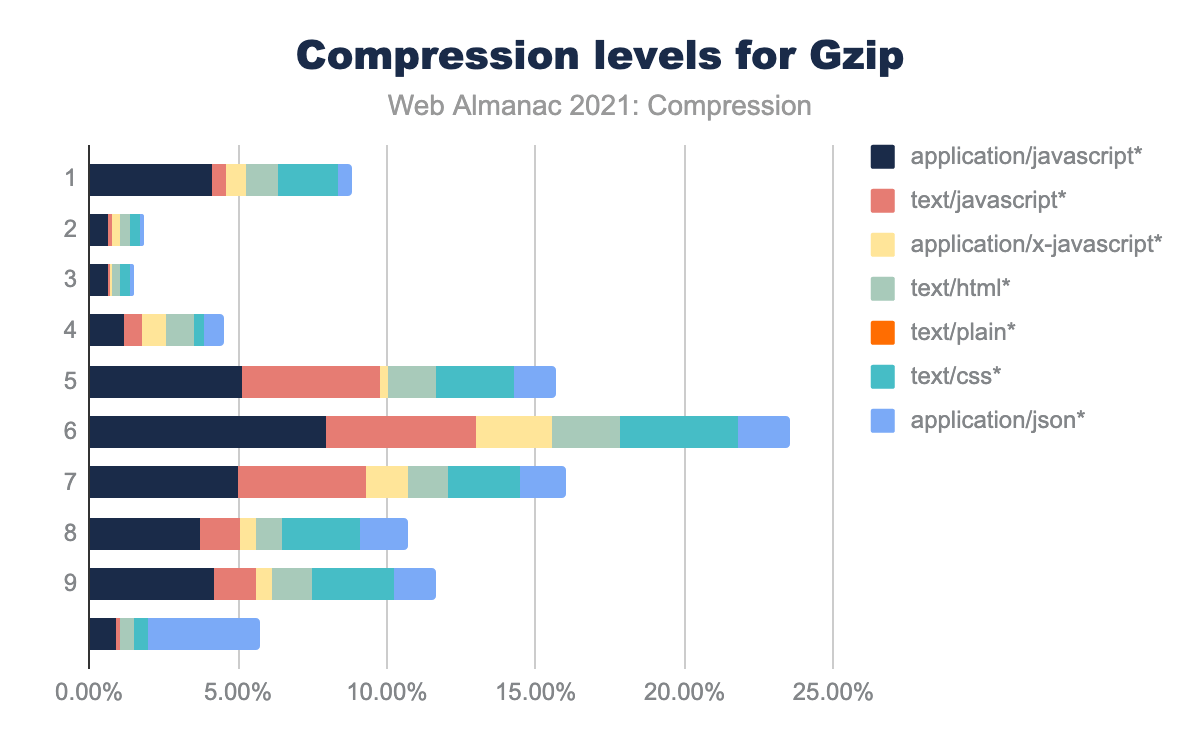
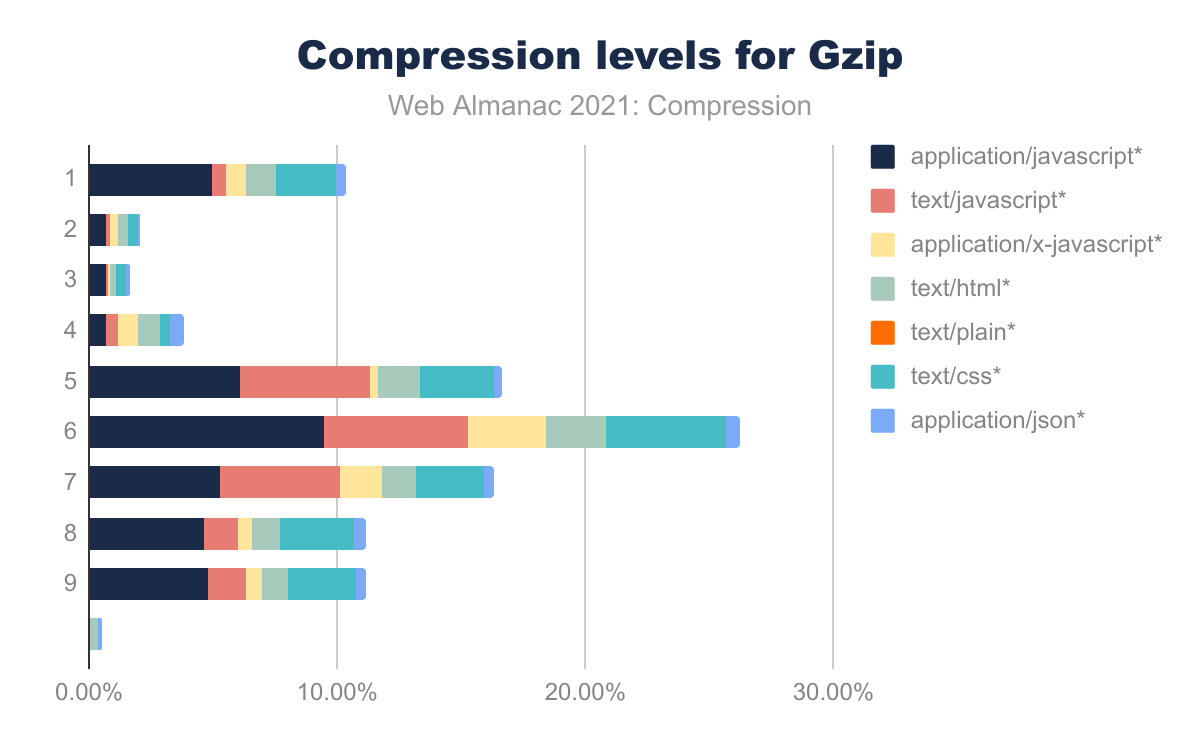
Handle the TODOs for compression chapter edits

diff --git a/src/content/en/2021/compression.md b/src/content/en/2021/compression.md
@@ -23,13 +23,11 @@ unedited: true
 
 ## Introduction
 
-A user's time is valuable, so they shouldn't have to wait a long time for a web page to load. The HTTP protocol allows to compress responses and this decreases the time needed to transfer the content. When taking the compression and decompression time into account, this often leads to significant improvement in the user experience. It can reduce [page weight](./page-weight), improve [web performance](./performance) and boost search rankings. As such it's an important part of [Search Engine Optimization](./seo).
+A user's time is valuable, so they shouldn't have to wait a long time for a web page to load. The HTTP protocol allows to compress responses and this decreases the time needed to transfer the content. Compression often leads to significant improvement in the user experience. It can reduce [page weight](./page-weight), improve [web performance](./performance) and boost search rankings. As such it's an important part of [Search Engine Optimization](./seo).
 
 This chapter discusses lossless compression applied on a HTTP response. Lossy and lossless compression used in [media](../2020/media) formats such as images, audio and video are equally if not more important for increasing page speed. However these are not in the scope of this chapter as they usually are part of the file format itself.
 
-## HTTP compression is useful for many types of content
-
-{# TODO - is this title too long? Can it be shortened? #}
+## Content types using HTTP compression
 
 HTTP compression is recommended for text-based content, such as [HTML](./markup), [CSS](./css), [JavaScript](./javascript), JSON, or SVG, as well as for `woff`, `ttf` and `ico` files. Media files such as images that are already compressed do not benefit from HTTP compression since, as mentioned previously, their representation already includes internal compression.
 
@@ -43,30 +41,20 @@ HTTP compression is recommended for text-based content, such as [HTML](./markup)
   )
 }}
 
-Compared to the other content types, `text/plain` and `text/html` uses the least amount of compression, with merely 12% and 14% using compression at all. This might be because `text/html` is more often dynamically generated than static content such as JavaScript and CSS. However, it is also recommended to compress dynamic content. The next sections show how this is configured.
+Compared to the other content types, `text/plain` and `text/html` use the least amount of compression, with merely 12% and 14% using compression at all. This might be because `text/html` is more often dynamically generated than static content such as JavaScript and CSS, even though compressing dynamically generated content also has a positive impact. More analysis about the compression of JavaScript content is available in the [JavaScript][./javascript] chapter.
 
 ## Server settings for HTTP compression
 
 For HTTP content encoding, the HTTP standard defines the [Accept-Encoding](https://developer.mozilla.org/en-US/docs/Web/HTTP/Headers/Accept-Encoding) request header, with which a HTTP client can announce to the server what content encodings it can handle. The server's response can then contain a [Content-Encoding](https://developer.mozilla.org/en-US/docs/Web/HTTP/Headers/Content-Encoding) header field that specifies which of the encodings was chosen to transform the data in the response body.
 
-Both <a hreflang="en" href="https://github.com/google/brotli">Brotli</a> and <a hreflang="en" href="https://www.gnu.org/software/gzip/manual/gzip.html">Gzip</a> are supported by virtually all browsers. On the server side, most popular servers like nginx and Apache can be configured to use Brotli and/or Gzip. There are two types of compression settings:
+Practically all text compression is done by one of two HTTP content encodings: <a hreflang="en" href="https://tools.ietf.org/html/rfc1952">Gzip</a> and <a hreflang="en" href="https://github.com/google/brotli">Brotli</a>. Both <a hreflang="en" href="https://github.com/google/brotli">Brotli</a> and <a hreflang="en" href="https://www.gnu.org/software/gzip/manual/gzip.html">Gzip</a> are supported by virtually all browsers. On the server side, most [popular servers](https://en.wikipedia.org/wiki/HTTP_compression#Servers_that_support_HTTP_compression) like nginx and Apache can be configured to use Brotli and/or Gzip. The configuration is different depending on when the content is generated:
 
- - for precompressed (static) content: this content is already compressed beforehand, ideally with the highest level possible, and the web server should be set up to find the appropriate compressed files based on the filename extension, for example.
- - for dynamic content, which is compressed on the fly for each request by the web server (or a plugin) itself, for dynamically generated text content
-
-{# TODO: these bullets dont flow well gramatically but i don't understand it enough to fix it #}
+ - static content: this content can be precompressed. The web server should be set up to find the appropriate compressed files, e.g. based on the filename extension. For example, CSS and JavaScript are often static content.
+ - dynamically generated content: this has to be compressed on the fly for each request by the web server (or a plugin) itself. For example, HTML or JSON can be dynamic content in some cases.
 
 When compressing text with Brotli or Gzip it is possible to select different compression levels. Higher compression levels will result in smaller compressed files, but take a longer time to compress. During decompression, CPU usage tends not to be higher for more heavily compressed files. Rather, files that are compressed with a higher compression level are slightly faster to decode.
 
-Many support dynamically and/or precompressed HTTP and many of them support Brotli.
-
-Practically all text compression is done by one of two HTTP content encodings: <a hreflang="en" href="https://tools.ietf.org/html/rfc1952">Gzip</a> and <a hreflang="en" href="https://github.com/google/brotli">Brotli</a>. Both are widely supported by browsers: <a hreflang="en" href="https://caniuse.com/brotli">can I use Brotli</a> / <a hreflang="en" href="https://caniuse.com/gzip">can I use Gzip</a>. On the server side, most [popular servers](https://en.wikipedia.org/wiki/HTTP_compression#Servers_that_support_HTTP_compression)  can be configured to use [Brotli](https://en.wikipedia.org/wiki/Brotli) and/or [Gzip](https://en.wikipedia.org/wiki/Gzip).
-
-{# TODO - this paragraph feels like a repeat of above #}
-
 Depending on the web server software used, compression needs to be enabled, and the configuration may be separate for precompressed and dynamically compressed content. For <a hreflang="en" href="https://httpd.apache.org/">Apache</a>, Brotli can be enabled with <a hreflang="en" href="https://httpd.apache.org/docs/2.4/mod/mod_brotli.html">mod\_brotli</a>, and Gzip with <a hreflang="en" href="https://httpd.apache.org/docs/2.4/mod/mod_deflate.html">mod\_deflate</a>. For <a hreflang="en" href="https://nginx.org/">nginx</a> instructions for <a hreflang="en" href="https://github.com/google/ngx_brotli">enabling Brotli</a> and for <a hreflang="en" href="https://nginx.org/en/docs/http/ngx_http_gzip_module.html">enabling Gzip</a> are available as well.
-
-{# TODO: i've seen at least 2 other chapters mention britoli and gzip compression, most recently javascript. you could link to that chapter to learn more... or they should be linking to you, not sure actually #}
 
 ## Trends in HTTP compression
 
@@ -169,11 +157,11 @@ From these results we can see that, [*compared to 2020*](../2020/compression#fir
 
 ## Compression levels
 
-Compression level is a parameter given to the encoder to adjust the amount of effort is applied to find redundancy in the input in order to consequently achieve higher compression density.
+Compression level is a parameter given to the encoder to adjust the amount of effort is applied to find redundancy in the input in order to consequently achieve higher compression density. A higher compression level results in slower compression, but does not substantially affect the decompression speed, even making it slightly faster. For precompressed content, the time to compress the data has no effect on the user experience because it was already compressed beforehand. For dynamic content, the amount time the CPU needs to compress can be traded off to the gain in speed to send the data over the network.
 
-Brotli encoding allows compression levels from 0 to 11, while Gzip uses levels 1 to 9. Higher levels can be achieved for Gzip as well, with a tool such as Zopfli. This is indicated as `opt` in the graph below. A higher compression level results in slower compression, but does not substantially affect the decompression speed, even making it slightly faster.
+Brotli encoding allows compression levels from 0 to 11, while Gzip uses levels 1 to 9. Higher levels can be achieved for Gzip as well, with a tool such as Zopfli. This is indicated as `opt` in the graph below.
 
-We used the HTTP Archive `summary_response_bodies` data table to analyze the compression levels currently used on the web. This is estimated by re-compressing the responses with different compression level settings and taking the closest actual size, based on around 14000 compressed responses that used Brotli, and 14000 that used Gzip.
+We used the HTTP Archive `summary_response_bodies` data table to analyze the compression levels currently used on the web. This is estimated by re-compressing the responses with different compression level settings and taking the closest actual size, based on around 14,000 compressed responses that used Brotli, and 11,000 that used Gzip.
 
 When plotting the amount of instances of each level, it shows two peaks for the most commonly used Brotli compression levels, one around compression level 5, and another at the maximum compression level. Usage of compression levels below 4 is rare.
 
@@ -191,23 +179,19 @@ Gzip compression is applied largely around compression level 6, extending to lev
 {{ figure_markup(
   image="compression-levels-gzip.png",
   caption="Compression levels for Gzip.",
-  description="Stacked bar charts showing the usage of compression levels of responses using Gzip, for compression level 1 to 9, as well as `opt` which corresponds to optimizers such as Zopfli. It shows peaks at level 1 and at level 6, as well as a smaller peak at level 9. Each level is also broken down by content type.",
+  description="Stacked bar charts showing the usage of compression levels of responses using Gzip, for compression level 1 to 9, as well as `opt` which corresponds to optimizers such as Zopfli. It shows peaks at level 1 and at level 6 extending through level 9. Each level is also broken down by content type.",
   chart_url="https://docs.google.com/spreadsheets/d/e/2PACX-1vQtfyTM9VEweN_Hli3IuxxqU1CRap4V5Q28baEs7aEBResoPRgk9Dwp1m_vdS9lzNlfO8J4hZN7GPT7/pubchart?oid=586666706&format=interactive",
   sheets_gid="150560131"
   )
 }}
 
-{# TODO - should data be broken down more to say which content type? #}
+The figure breaks down each compression level by content type. JavaScript is the most common content type in almost all cases. For Brotli, the proportion of JavaScript in the highest compression levels is higher than in the lower compression levels, while JSON is more common in the lower compression levels. For Gzip, the distribution of the JavaScript content type is roughly equal at all levels.
 
 ## How to analyze compression on sites
 
-To check which content of a website is already using HTTP compression, the [Firefox Developer Tools](https://developer.mozilla.org/en-US/docs/Tools) or the <a hreflang="en" href="https://developers.google.com/web/tools/chrome-devtools">Chrome DevTools</a> can be used. In the developer tools, open the Network tab and reload your site. A list of responses such as HTML, CSS, JavaScript, fonts and images should appear. To see which ones are compressed, you can check the content encoding in their response header. You can enable a column to easily see this for all responses at once. To do this, right click on the column titles, and in the menu navigate to Response Headers and enable Content-Encoding.
+To check which content of a website is using HTTP compression, the [Firefox Developer Tools](https://developer.mozilla.org/en-US/docs/Tools) or the <a hreflang="en" href="https://developers.google.com/web/tools/chrome-devtools">Chrome DevTools</a> can be used. In the developer tools, open the Network tab and reload your site. A list of responses such as HTML, CSS, JavaScript, fonts and images should appear. To see which ones are compressed, you can check the content encoding in their response header. You can enable a column to easily see this for all responses at once. To do this, right click on the column titles, and in the menu navigate to Response Headers and enable Content-Encoding.
 
 Responses that are Gzip compressed will show "gzip", while those compressed with Brotli will show "br". If the value is blank, no HTTP compression is used. For images this is normal, since these resources are already compressed on their own.
-
-If you hover the mouse over the values in the Size column, you can also see "transferred over network" and "resource size" to compare the compressed and actual sizes. This data can also be seen for the entire site: this is indicated as "size" / "transferred size" in Firefox and "transferred" and "resources" in Chrome on the bottom left hand side of the Network tab.
-
-{# TODO is this section above necessary? it has less to do with discussing data #}
 
 {{ figure_markup(
   image="content-encoding.png",
@@ -236,11 +220,9 @@ The HTTP Archive [runs Lighthouse audits](./methodology#lighthouse) for every mo
 
 Before thinking about how to compress content, it is often wise to reduce the content transmited to begin with. One way of achieving this is to use so-called "minimizers", such as <a hreflang="en" href="https://github.com/kangax/html-minifier">HTMLMinifier</a>, <a hreflang="en" href="https://github.com/ben-eb/cssnano">CSSNano</a>, or <a hreflang="en" href="https://github.com/mishoo/UglifyJS2">UglifyJS</a>.
 
-After having the minimal form of the conten to transmit, the next step is to ensure compression is enabled. You can verify it is enabled as highlighted in the previous section, and configure your web server if needed.
+After having the minimal form of the content to transmit, the next step is to ensure compression is enabled. You can verify it is enabled as highlighted in the previous section, and configure your web server if needed.
 
-When using only Gzip compression (also known as Deflate or Zlib), you can add support for Brotli. In comparison to Gzip, Brotli compresses to <a hreflang="en" href="https://quixdb.github.io/squash-benchmark/">smaller files at the same speed</a>, decompresses at the same speed, and is widely supported: <a hreflang="en" href="https://caniuse.com/brotli">can I use Brotli</a>.
-
-{# TODO - the wide support has been mentioned twice already #}
+When using only Gzip compression (also known as Deflate or Zlib), you can add support for Brotli. In comparison to Gzip, Brotli compresses to <a hreflang="en" href="https://quixdb.github.io/squash-benchmark/">smaller files at the same speed</a> and decompresses at the same speed.
 
 You can choose a well-tuned compression level. What compression level is right for your application might depend on multiple factors, but keep in mind that a more heavily compressed text file does not need more CPU when decoding, so for precompressed assets there's no drawback from the user's perspective to set the compression levels as high as possible. For dynamic compression, we have to make sure that the user doesn't have to wait longer for a more heavily compressed file, taking both the time it takes to compress as well as the potentially decreased transmission time into account. This difference is borne out when looking at compression level recommendations for both methods.
 
@@ -275,7 +257,7 @@ Improving the default settings on web server software would provide significant 
 
 ## Conclusion
 
-The analysis of compression levels used on 28,000 HTTP responses reveals that about 6% of Gzip-compressed content uses more advanced compressors such as Zopfli, while a similar "optimal parsing" approach is used for 17% of Brotli-compressed content. This indicates that when much slower but slightly more efficient methods are available, a significant number of users will deploy these methods for their static content.
+The analysis of compression levels used on 28,000 HTTP responses reveals that about 0.5% of Gzip-compressed content uses more advanced compressors such as Zopfli, while a similar "optimal parsing" approach is used for 17% of Brotli-compressed content. This indicates that when much slower but slightly more efficient methods are available, a significant number of users will deploy these methods for their static content.
 
 Usage of HTTP compression continues to grow, and especially Brotli has increased significantly compared to the [previous year's chapter](../2020/compression). The number of HTTP responses using any text compression increased by 2%, while Brotli increased by over 4%. Despite the increase, we still see opportunities to use more HTTP compression by tweaking the compression settings of servers. You can benefit from taking a closer look at your own website's responses and your server configuration. Where compression is not used, you may consider enabling it, and where it is used you may consider tweaking the compression methods towards higher compression levels, both for dynamic content such as HTML generated on the fly, and static content. Changing the default compression settings in popular HTTP servers could have a great impact for users.
 
